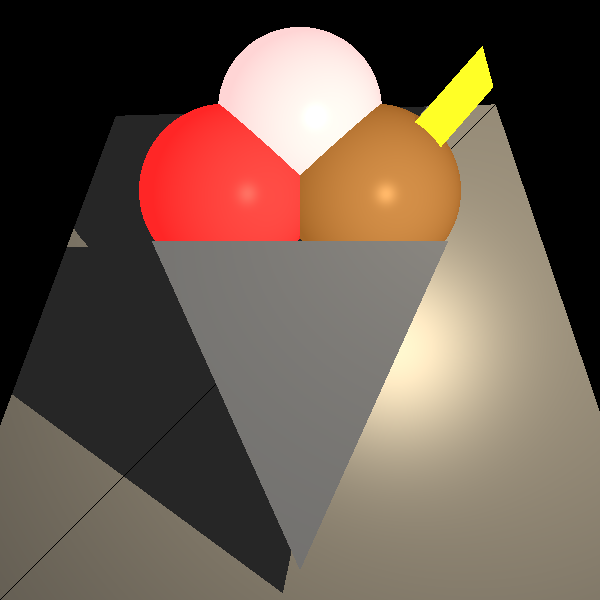
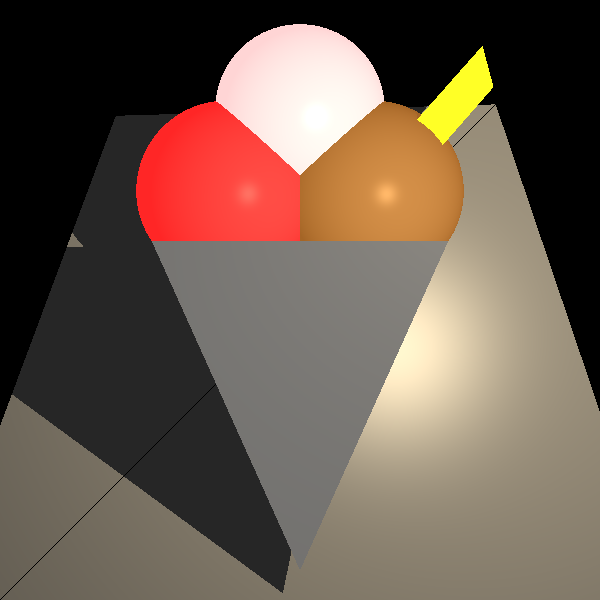
complate ice cream

diff --git a/unitTests/renderer/ReflectionRefractionTests.java b/unitTests/renderer/ReflectionRefractionTests.java
@@ -138,18 +138,17 @@ public class ReflectionRefractionTests {
                         new Point(66, 92, -85),
                         new Point(35, 57, -85)
                 )                        .setEmission(new Color(yellow)), //
-                new Sphere(30d, new Point(0, 70, -100)).setEmission(new Color(PINK)) // Yellow sphere
+                new Sphere(31d, new Point(0, 70, -100)).setEmission(new Color(PINK)) // Yellow sphere
                         .setMaterial(new Material().setKd(0.2).setKs(0.2).setShininess(30)),
-                new Sphere(32d, new Point(-27, 40, -100)).setEmission(new Color(255, 0, 0)) // Red sphere
+                new Sphere(33d, new Point(-27, 40, -100)).setEmission(new Color(255, 0, 0)) // Red sphere
                         .setMaterial(new Material().setKd(0.2).setKs(0.2).setShininess(30)),
-                new Sphere(32d, new Point(27, 40, -100)).setEmission(new Color(127, 63, 0)) // Green sphere
+                new Sphere(33d, new Point(27, 40, -100)).setEmission(new Color(127, 63, 0)) // Green sphere
                         .setMaterial(new Material().setKd(0.2).setKs(0.2).setShininess(30))
         );
 
         scene.lights.add(new SpotLight(new Color(245,222,179), new Point(75,20, 100), new Vector(0, 0, -4))
                 .setKl(4E-5).setKq(2E-7));
-        //scene.lights.add(new SpotLight(new Color(GREEN), new Point(-20,50, 0), new Vector(0, 0, -4))
-          //      .setKl(4E-5).setKq(2E-7));
+
 
         ImageWriter imageWriter = new ImageWriter("ourTest", 600, 600);
         camera.setImageWriter(imageWriter)
